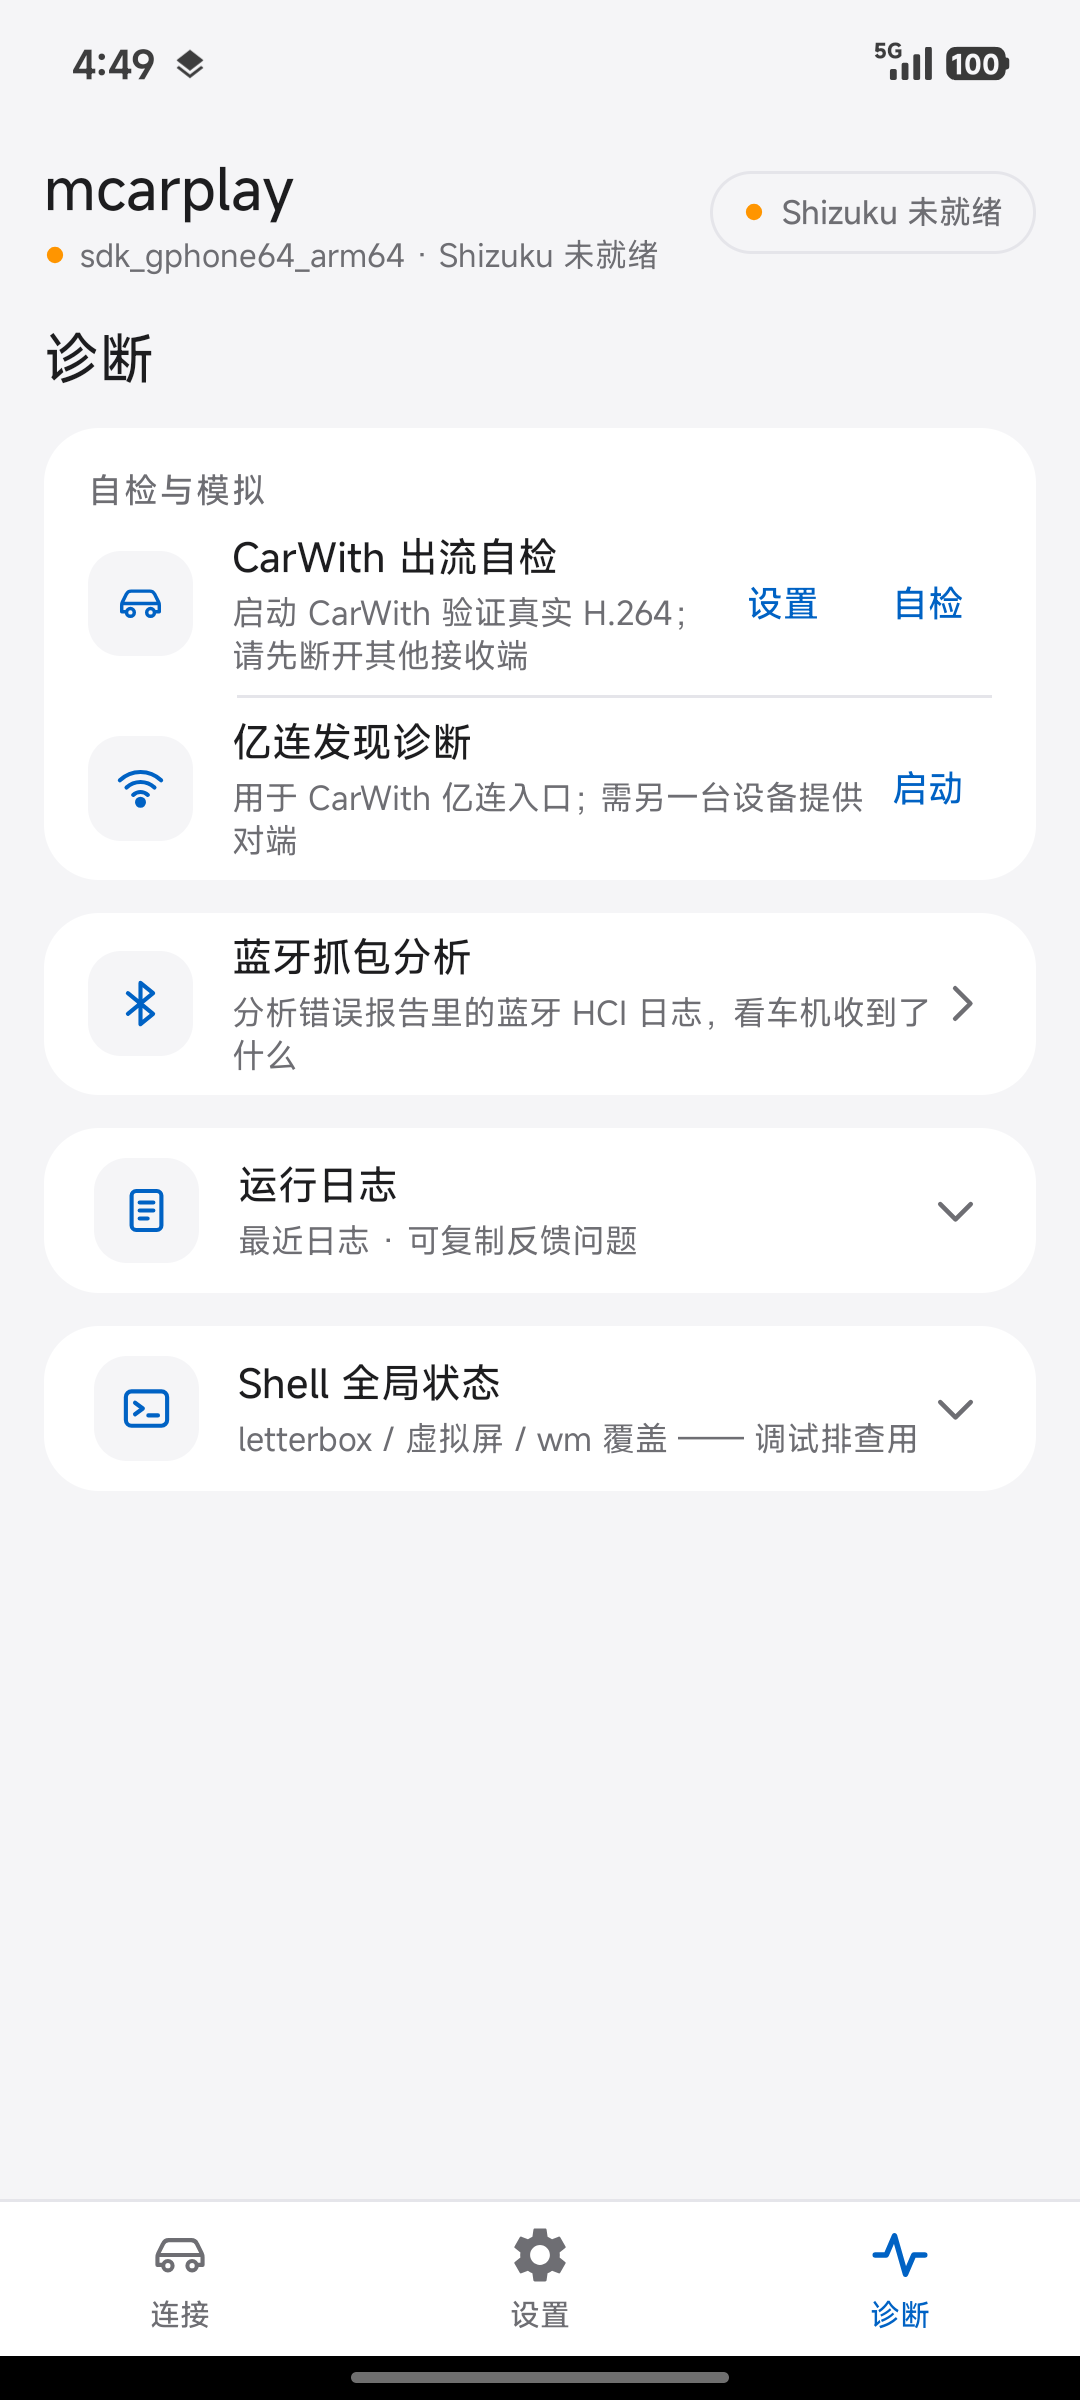
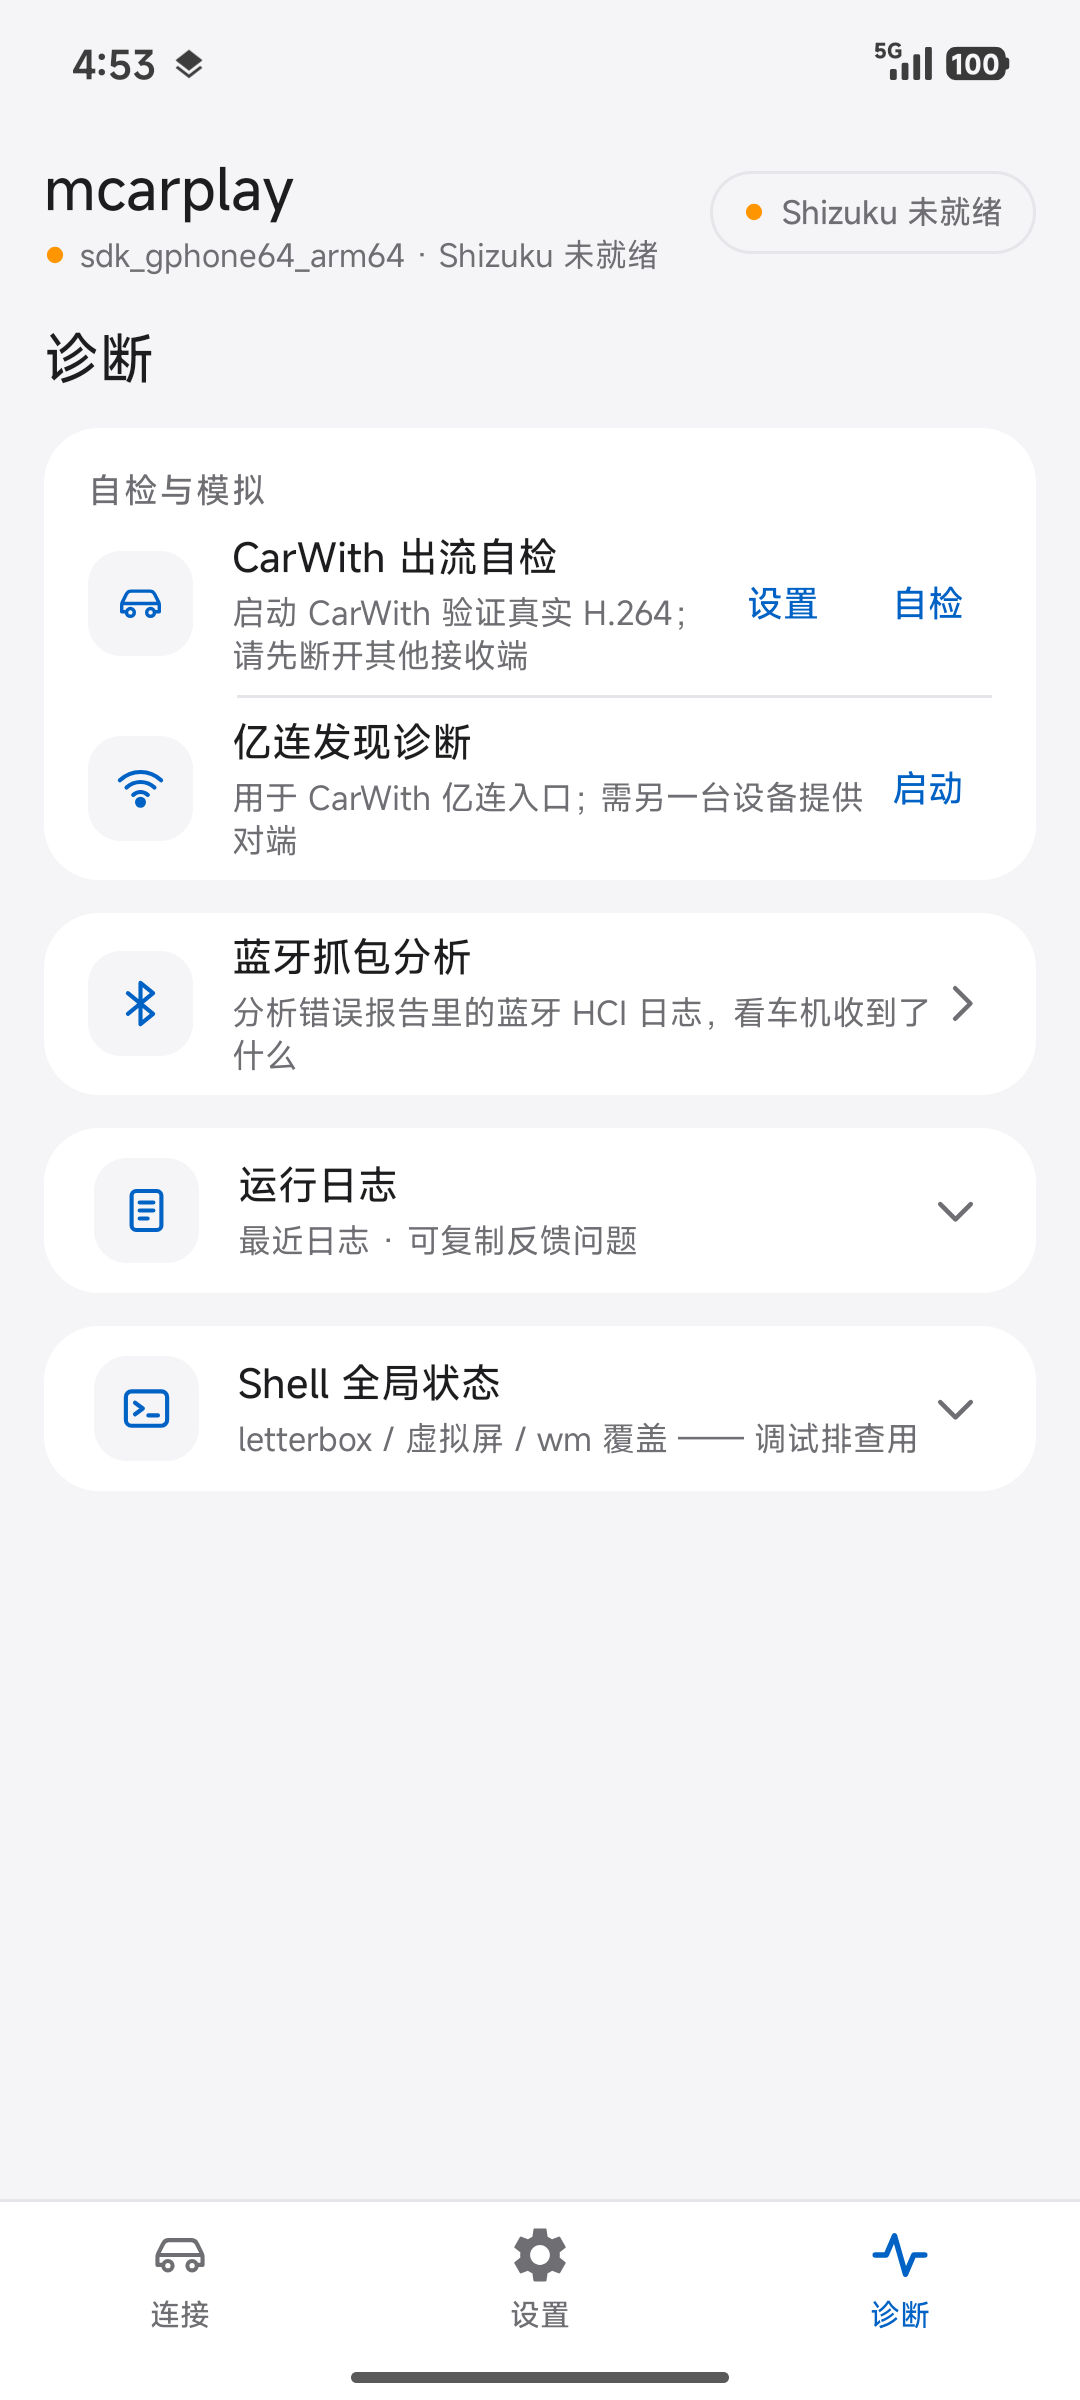
Make the status and gesture bars edge-to-edge and refresh the screenshots

Changed region(s): [[0.0, 0.9688, 1.0, 1.0], [0.0917, 0.0, 0.1528, 0.0312]]

diff --git a/app/src/main/java/com/mcarplay/app/ui/EdgeToEdge.kt b/app/src/main/java/com/mcarplay/app/ui/EdgeToEdge.kt
@@ -1,0 +1,56 @@
+package com.mcarplay.app.ui
+
+import android.app.Activity
+import android.content.res.Configuration
+import android.graphics.Color
+import android.view.View
+import androidx.core.graphics.Insets
+import androidx.core.view.ViewCompat
+import androidx.core.view.WindowCompat
+import androidx.core.view.WindowInsetsCompat
+
+/**
+ * 沉浸式系统栏：内容延伸到状态栏与底部手势条（小白条）之下，两条系统栏都透明，
+ * 图标明暗随浅/深色主题。各页面自己负责把 [systemInsets] 让给内容，
+ * 这样底部标签栏的底色可以一直铺到屏幕底缘。
+ *
+ * 假息屏遮罩是 FLAG_LAYOUT_NO_LIMITS 的全屏覆盖窗口，系统栏透明时它直接盖住系统栏下方的内容，
+ * 所以不再需要把导航栏涂成黑色来和遮罩融合。
+ */
+object EdgeToEdge {
+    /** 调用时机：`setContentView` 之后。 */
+    fun enable(activity: Activity) {
+        val window = activity.window
+        WindowCompat.setDecorFitsSystemWindows(window, false)
+        window.statusBarColor = Color.TRANSPARENT
+        window.navigationBarColor = Color.TRANSPARENT
+        // 系统默认会在手势条后垫一层半透明遮罩（三键导航时），关掉才是真正的沉浸
+        window.isNavigationBarContrastEnforced = false
+        window.isStatusBarContrastEnforced = false
+        val night =
+            activity.resources.configuration.uiMode and Configuration.UI_MODE_NIGHT_MASK == Configuration.UI_MODE_NIGHT_YES
+        WindowCompat.getInsetsController(window, window.decorView).apply {
+            isAppearanceLightStatusBars = !night
+            isAppearanceLightNavigationBars = !night
+        }
+    }
+
+    /** 每次系统栏/挖孔/输入法变化时回调；系统栏和挖孔合并，输入法不计入（键盘由各页自行处理）。 */
+    fun onInsets(
+        view: View,
+        apply: (Insets) -> Unit,
+    ) {
+        ViewCompat.setOnApplyWindowInsetsListener(view) { _, windowInsets ->
+            apply(windowInsets.getInsets(WindowInsetsCompat.Type.systemBars() or WindowInsetsCompat.Type.displayCutout()))
+            windowInsets
+        }
+        ViewCompat.requestApplyInsets(view)
+    }
+
+    /** 整个内容区四周让出系统栏（用于子页面：标题栏在上，内容在下，没有贴底的栏）。 */
+    fun padContent(activity: Activity) {
+        enable(activity)
+        val content = activity.findViewById<View>(android.R.id.content)
+        onInsets(content) { content.setPadding(it.left, it.top, it.right, it.bottom) }
+    }
+}

diff --git a/app/src/main/java/com/mcarplay/app/MainActivity.kt b/app/src/main/java/com/mcarplay/app/MainActivity.kt
@@ -54,6 +54,7 @@ import com.mcarplay.app.shizuku.Shell
 import com.mcarplay.app.shizuku.ShizukuGate
 import com.mcarplay.app.ui.BtIdentityDialog
 import com.mcarplay.app.ui.DarkMessageDialog
+import com.mcarplay.app.ui.EdgeToEdge
 import com.mcarplay.app.ui.LogConsoleController
 import com.mcarplay.app.ui.LogExportController
 import com.mcarplay.app.ui.PanelWindow
@@ -757,6 +758,14 @@ class MainActivity : AppCompatActivity() {
     override fun onCreate(savedInstanceState: Bundle?) {
         super.onCreate(savedInstanceState)
         setContentView(R.layout.activity_main)
+        // 沉浸：顶部让给状态栏，底部手势条的高度加到标签栏上，让标签栏底色一直铺到屏幕底缘
+        EdgeToEdge.enable(this)
+        val pageColumn = findViewById<View>(R.id.pageColumn)
+        val tabBar = findViewById<View>(R.id.tabBar)
+        EdgeToEdge.onInsets(findViewById(android.R.id.content)) {
+            pageColumn.setPadding(it.left, it.top, it.right, 0)
+            tabBar.setPadding(0, 0, 0, it.bottom)
+        }
         // 旋转/重建：沿用原倒计时截止时刻（onResume 据此续弹）
         disclaimerDeadlineAt = savedInstanceState?.getLong(KEY_DISCLAIMER_DEADLINE, 0L) ?: 0L
 

diff --git a/app/src/main/java/com/mcarplay/app/SettingsContentActivity.kt b/app/src/main/java/com/mcarplay/app/SettingsContentActivity.kt
@@ -6,6 +6,7 @@ import android.widget.TextView
 import androidx.appcompat.app.AppCompatActivity
 import com.mcarplay.app.settings.DisplayPanelFragment
 import com.mcarplay.app.settings.SettingsToastHost
+import com.mcarplay.app.ui.EdgeToEdge
 
 /**
  * 车机显示设置页：承载 [DisplayPanelFragment]（流画布缩放、帧率、息屏、自动连接、兼容兜底、HID 日志等）。
@@ -17,6 +18,7 @@ class SettingsContentActivity :
     override fun onCreate(savedInstanceState: Bundle?) {
         super.onCreate(savedInstanceState)
         setContentView(R.layout.activity_settings_content)
+        EdgeToEdge.padContent(this)
         findViewById<ImageView>(R.id.btnBack).setOnClickListener { finish() }
         findViewById<TextView>(R.id.contentTitle).setText(R.string.lay_display)
 

diff --git a/app/src/main/java/com/mcarplay/app/update/UpdateActivity.kt b/app/src/main/java/com/mcarplay/app/update/UpdateActivity.kt
@@ -20,6 +20,7 @@ import com.mcarplay.app.R
 import com.mcarplay.app.SessionController
 import com.mcarplay.app.carlife.CarLifeDiagnostics
 import com.mcarplay.app.i18n.AppLanguage
+import com.mcarplay.app.ui.EdgeToEdge
 import com.mcarplay.app.ui.WhatsNewDialog
 import com.mcarplay.app.util.Bg
 import com.mcarplay.app.util.DebugFileLog
@@ -56,6 +57,7 @@ class UpdateActivity : AppCompatActivity() {
     override fun onCreate(savedInstanceState: Bundle?) {
         super.onCreate(savedInstanceState)
         setContentView(R.layout.activity_update)
+        EdgeToEdge.padContent(this)
         status = findViewById(R.id.updateStatus)
         notes = findViewById(R.id.updateNotes)
         // 没有内容时不显示空卡片

diff --git a/app/src/main/java/com/mcarplay/app/diagnostics/btsnoop/BtSnoopActivity.kt b/app/src/main/java/com/mcarplay/app/diagnostics/btsnoop/BtSnoopActivity.kt
@@ -16,6 +16,7 @@ import androidx.activity.result.contract.ActivityResultContracts
 import androidx.appcompat.app.AppCompatActivity
 import androidx.core.content.IntentCompat
 import com.mcarplay.app.R
+import com.mcarplay.app.ui.EdgeToEdge
 import com.mcarplay.app.util.Bg
 import com.mcarplay.app.util.DebugFileLog
 
@@ -40,6 +41,7 @@ class BtSnoopActivity : AppCompatActivity() {
     override fun onCreate(savedInstanceState: Bundle?) {
         super.onCreate(savedInstanceState)
         setContentView(R.layout.activity_btsnoop)
+        EdgeToEdge.padContent(this)
         status = findViewById(R.id.btsnoopStatus)
         result = findViewById(R.id.btsnoopResult)
         copy = findViewById(R.id.btsnoopCopy)

diff --git a/docs/UI-REDESIGN.md b/docs/UI-REDESIGN.md
@@ -265,3 +265,10 @@
 - 截图在 `docs/screenshots/ui-*.png`：Android 模拟器（HyperOS_3 AVD，1080×2400）上的连接 / 设置 / 诊断 / 车机显示页，浅色与深色各一组。
   模拟器截图只说明界面，不说明任何车型或接收端的兼容性。
 - 仍待做：四台接收端的真车回归；诊断页「Shell 全局状态」卡仍保留虚拟屏残留清理（给旧版本残留用，仅 Shizuku 可用）。
+
+### 沉浸式系统栏
+
+- 状态栏与底部手势条（小白条）都改为透明，内容铺到屏幕边缘；系统栏图标明暗随浅/深色（`ui/EdgeToEdge.kt`）。
+  主界面把状态栏高度让给顶部栏，底部手势条高度加到标签栏上，标签栏底色一直铺到屏幕底缘；其余子页面整体让出系统栏。
+- 原先导航栏恒为黑色，是为了和假息屏遮罩融合；遮罩是全屏覆盖窗口，系统栏透明时同样被盖住，因此不再需要。
+- 验证：模拟器（手势导航，浅/深色）截图核对；三键导航、横屏与带挖孔屏幕的 inset **未实测**，假息屏遮罩下的观感也未在真机上看。
